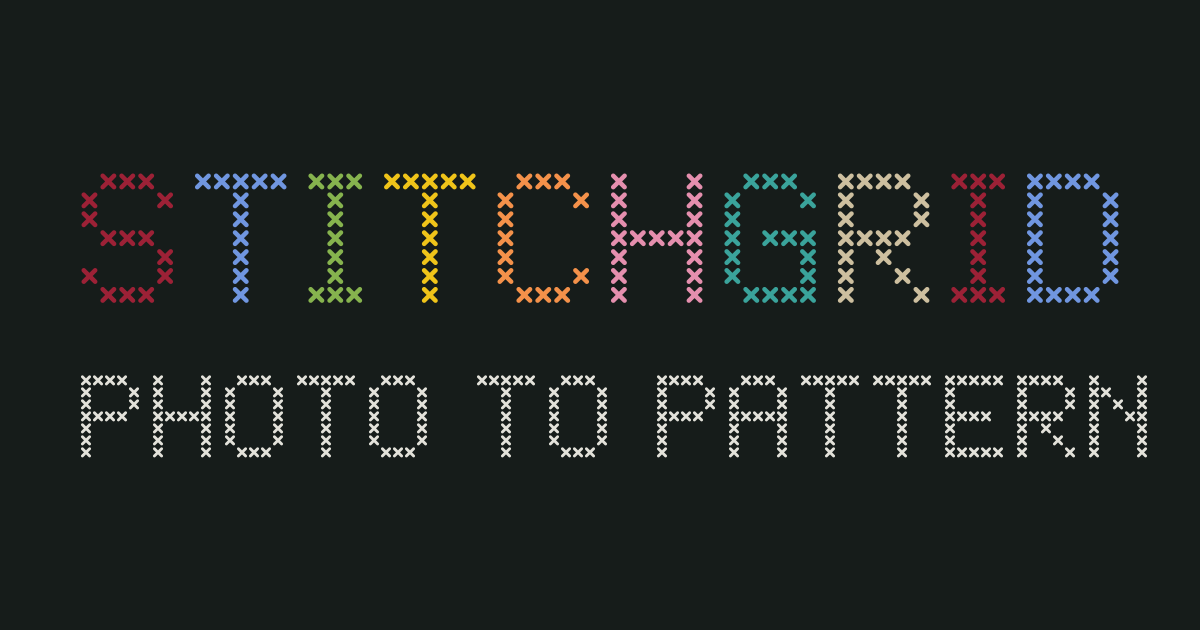
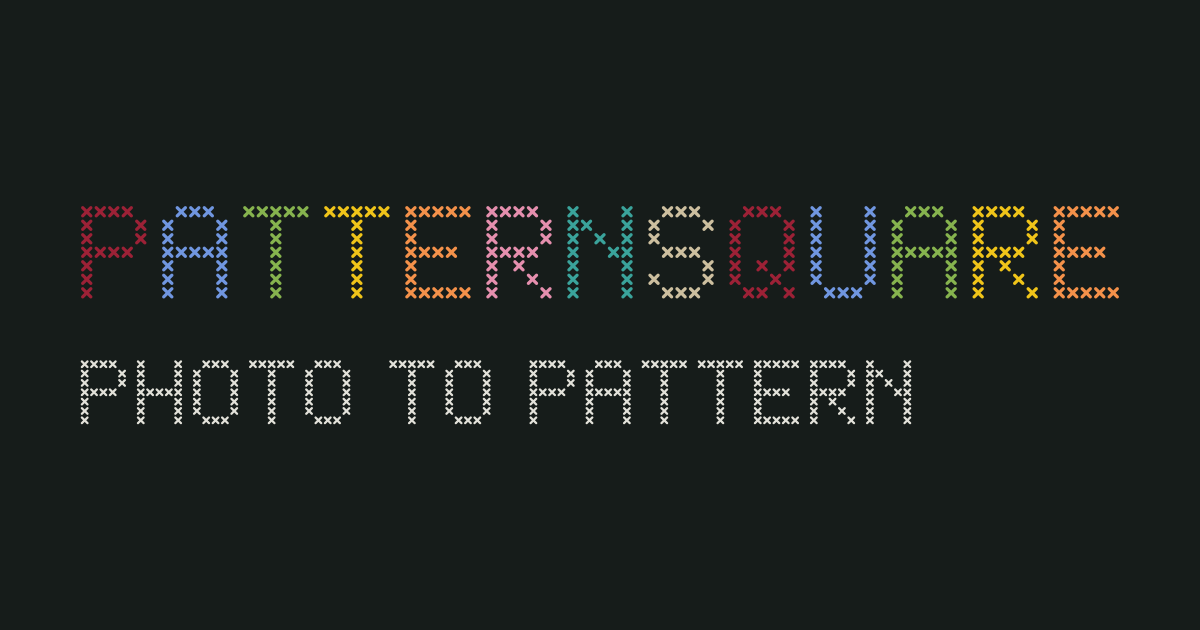
Rename to PatternSquare (patternsquare.com)
stitchgrid.com belongs to an active apparel company, so the site is now
PatternSquare. Site name, domain, canonical host in the worker, Cloudflare
worker name, robots and sitemap, PDF footer, download file names, copy,
docs and the plan. The stitched wordmark gains Q and U; icons and the OG
image are now rendered by scripts/render-icons.mjs from the site name.

Also fixes canonical and og:url, which pointed at /page.html (the file
build format) instead of /page, and marks the 404 page noindex.

Changed region(s): [[0.0617, 0.2714, 0.9558, 0.4825], [0.0617, 0.573, 0.9558, 0.7238]]

diff --git a/src/data/site.ts b/src/data/site.ts
@@ -1,8 +1,8 @@
 // Site-wide constants. Change the domain, analytics or contact details here only.
 
 /** Working domain until one is registered (execution-plan.md §10). */
-export const SITE_URL = 'https://stitchgrid.com';
-export const SITE_NAME = 'StitchGrid';
+export const SITE_URL = 'https://patternsquare.com';
+export const SITE_NAME = 'PatternSquare';
 
 export const AUTHOR = {
   name: 'Ritvik Kudalkar',
@@ -14,5 +14,5 @@ export const CONTACT_EMAIL = 'ritx8877@gmail.com';
 // Web3Forms public access key (safe to expose; it only delivers to the inbox it was created for).
 export const WEB3FORMS_ACCESS_KEY = 'aaa77c75-7a9d-4690-9af1-063741576c9a';
 
-/** GA4 measurement ID. Empty until a StitchGrid property exists; analytics and the consent banner stay off until then. */
+/** GA4 measurement ID. Empty until a PatternSquare property exists; analytics and the consent banner stay off until then. */
 export const GA_ID = '';

diff --git a/src/data/stitch-font.ts b/src/data/stitch-font.ts
@@ -12,9 +12,11 @@ export const STITCH_FONT: Record<string, string[]> = {
   N: ['#...#', '##..#', '#.#.#', '#..##', '#...#', '#...#', '#...#'],
   O: ['.###.', '#...#', '#...#', '#...#', '#...#', '#...#', '.###.'],
   P: ['####.', '#...#', '#...#', '####.', '#....', '#....', '#....'],
+  Q: ['.###.', '#...#', '#...#', '#...#', '#.#.#', '#..#.', '.##.#'],
   R: ['####.', '#...#', '#...#', '####.', '#.#..', '#..#.', '#...#'],
   S: ['.###.', '#...#', '#....', '.###.', '....#', '#...#', '.###.'],
   T: ['#####', '..#..', '..#..', '..#..', '..#..', '..#..', '..#..'],
+  U: ['#...#', '#...#', '#...#', '#...#', '#...#', '#...#', '.###.'],
   ' ': ['..', '..', '..', '..', '..', '..', '..'],
 };
 

diff --git a/src/styles/app.css b/src/styles/app.css
@@ -1,7 +1,7 @@
 @import "tailwindcss";
 
 /*
-  StitchGrid design system. See DESIGN.md and execution-plan.md §7.
+  PatternSquare design system. See DESIGN.md and execution-plan.md §7.
   A chart sheet lying on a cutting mat. The mat changes with the theme; the sheet is always paper,
   because it is what gets printed. One thread colour per craft. Surfaces are separated by tone,
   never by lines or shadows. Square corners, except the folder-tab corners on buttons and tabs.

diff --git a/src/data/archive.ts b/src/data/archive.ts
@@ -1,5 +1,5 @@
 // Openly licensed pictures of needlework, downloaded with credits in src/assets/archive/credits.json.
-// They show the world around the tools and are never presented as StitchGrid's own work.
+// They show the world around the tools and are never presented as PatternSquare's own work.
 // Always show the credit next to the picture.
 import berlinChart from '../assets/archive/berlin-chart.webp';
 import sampler from '../assets/archive/sampler-1937.jpg';

diff --git a/src/scripts/workbench.ts b/src/scripts/workbench.ts
@@ -490,7 +490,7 @@ export function initWorkbench(root: HTMLElement) {
     a.click();
     setTimeout(() => URL.revokeObjectURL(a.href), 4000);
   };
-  const fileBase = () => `stitchgrid-${craft.fileStem}-${pattern!.width}x${pattern!.height}`;
+  const fileBase = () => `patternsquare-${craft.fileStem}-${pattern!.width}x${pattern!.height}`;
 
   $('[data-export="pdf"]')?.addEventListener('click', async (e) => {
     if (!pattern) return;

diff --git a/worker/index.js b/worker/index.js
@@ -1,7 +1,7 @@
 // Sends every non-canonical URL to its canonical form with a single permanent 301:
 // https, no www., no trailing slash and no .html extension. Everything else is handed
 // to the static assets.
-const CANONICAL_HOST = 'stitchgrid.com';
+const CANONICAL_HOST = 'patternsquare.com';
 
 // Moved pages go here as permanent redirects, so old links keep their rankings.
 const REDIRECTS = {};

diff --git a/execution-plan.md b/execution-plan.md
@@ -7,7 +7,7 @@ Stack: the same as touchscreentester.com, so everything carries over.
 - Auto-deploys from GitHub on push to `main`
 - `DESIGN.md` design tokens
 
-Domain: **not chosen yet.** See section 10.
+Domain: **patternsquare.com** (site name PatternSquare). See section 10.
 
 ## Goal
 
@@ -300,7 +300,7 @@ The dealt hero, the **tabbed folder stack**, fits this site exactly: crafters re
 
 ```text
 ┌──────────────────────────────────────────────────────────────┐
-│                          stitchgrid                   About  │
+│                        patternsquare                  About  │
 │                                                              │
 │                     PHOTO TO PATTERN                         │  ← Bebas, ~70% width
 │        Turn a photo into a chart you can print and stitch,   │
@@ -326,7 +326,7 @@ The tool comes first (section 6). The first screen is a **workbench**:
 
 ```text
 ┌──────────────────────────────────────────────────────────────┐
-│ stitchgrid                         Tools  Guides  About      │
+│ patternsquare                      Tools  Guides  About      │
 │ CROSS STITCH PATTERN MAKER                                   │  ← H1, Bebas, one line
 │ Free, private, no sign-up. Your photo stays on this device.  │
 │ ┌────────────────────────────────────┐ ┌──────────────────┐  │
@@ -399,7 +399,7 @@ The skill's floor is at least four real pictures per page. SVG drawings don't co
 The PDF is what people keep and pass around, so it carries the design too:
 - The cover is the front of the folder: the tool name in Bebas, the preview, and the key as the slip.
 - Chart pages use the same symbol paths as the screen.
-- Every page footer carries a small "Made free at stitchgrid.com" (or whichever domain you pick). Charts get shared in craft groups for years, so this is free brand reach.
+- Every page footer carries a small "Made free at patternsquare.com". Charts get shared in craft groups for years, so this is free brand reach.
 
 ### 7.10 House rules (checked automatically)
 
@@ -453,7 +453,7 @@ These lessons come from touchscreentester's AdSense rejection, so build them in 
 
 Effort assumes building with Claude Code. One branch and pull request per phase; never push straight to `main`.
 
-**Domain:** pick something broad enough for every craft, not cross-stitch-only. Examples of the style: `stitchgrid`, `patternfromphoto`, `pixelpattern`. Check availability, and avoid brand names (LEGO, Minecraft, DMC, Perler) in the domain.
+**Domain:** **patternsquare.com**, chosen 26 October 2026. The working name StitchGrid was dropped because stitchgrid.com belongs to an active apparel company. The name is broad enough for every craft (one square per stitch, pixel, block or bead) and avoids brand names (LEGO, Minecraft, DMC, Perler).
 
 ---
 

diff --git a/src/palettes/SOURCES.md b/src/palettes/SOURCES.md
@@ -4,11 +4,11 @@ Each palette is a list of colour codes, names and approximate hex values. Hex va
 
 ## dmc.json
 
-DMC stranded cotton: code, name and RGB, from the table in [adrianj/CrossStitchCreator](https://github.com/adrianj/CrossStitchCreator) (`DMC Cotton Floss converted to RGB Values.csv`), with abbreviated names expanded. DMC is a trademark of DMC; StitchGrid is not affiliated with it.
+DMC stranded cotton: code, name and RGB, from the table in [adrianj/CrossStitchCreator](https://github.com/adrianj/CrossStitchCreator) (`DMC Cotton Floss converted to RGB Values.csv`), with abbreviated names expanded. DMC is a trademark of DMC; PatternSquare is not affiliated with it.
 
 ## minecraft.json
 
-Block names and the average colour of each block's texture, from the `color_cache.json` data in [blockpedia](https://crates.io/crates/blockpedia) 0.1.9. Curated to full, solid blocks with even faces; biome-tinted blocks (grass, leaves) and see-through blocks are left out. Tags: `wool`, `concrete`, `concrete-powder`, `terracotta`, `wood`, `stone`, `gravity` (falls when unsupported), `precious` (expensive in survival). No textures are shipped. Minecraft is a trademark of Mojang; StitchGrid is unofficial and not affiliated with Mojang or Microsoft.
+Block names and the average colour of each block's texture, from the `color_cache.json` data in [blockpedia](https://crates.io/crates/blockpedia) 0.1.9. Curated to full, solid blocks with even faces; biome-tinted blocks (grass, leaves) and see-through blocks are left out. Tags: `wool`, `concrete`, `concrete-powder`, `terracotta`, `wood`, `stone`, `gravity` (falls when unsupported), `precious` (expensive in survival). No textures are shipped. Minecraft is a trademark of Mojang; PatternSquare is unofficial and not affiliated with Mojang or Microsoft.
 
 blockpedia licence:
 
@@ -38,4 +38,4 @@ SOFTWARE.
 
 ## pico8.json, gameboy.json, nes.json
 
-Retro limited palettes as published on [Lospec](https://lospec.com/palette-list): `pico-8`, `nintendo-gameboy-bgb` and `nintendo-entertainment-system` (duplicates removed). Shown under neutral names; PICO-8 is by Lexaloffle, and Nintendo, Game Boy and NES are trademarks of Nintendo. StitchGrid is not affiliated with either.
+Retro limited palettes as published on [Lospec](https://lospec.com/palette-list): `pico-8`, `nintendo-gameboy-bgb` and `nintendo-entertainment-system` (duplicates removed). Shown under neutral names; PICO-8 is by Lexaloffle, and Nintendo, Game Boy and NES are trademarks of Nintendo. PatternSquare is not affiliated with either.

diff --git a/CLAUDE.md b/CLAUDE.md
@@ -1,6 +1,6 @@
 ## Project
 
-StitchGrid: free, private, in-browser tools that turn a photo into a printable craft pattern. The plan is `execution-plan.md`; the design system is `DESIGN.md`. Read both before working on a phase.
+PatternSquare: free, private, in-browser tools that turn a photo into a printable craft pattern. The plan is `execution-plan.md`; the design system is `DESIGN.md`. Read both before working on a phase.
 
 - One branch and pull request per phase; never push straight to `main` (pushing to `main` deploys).
 - Site constants (domain, contact, GA ID) live only in `src/data/site.ts`. Tools, their thread colours and `live` flags live in `src/data/tools.ts`.

diff --git a/README.md b/README.md
@@ -1,4 +1,4 @@
-# StitchGrid
+# PatternSquare
 
 Free, private tools that turn a photo into a printable craft pattern, starting with cross stitch. Everything runs in the browser; photos are never uploaded.
 
